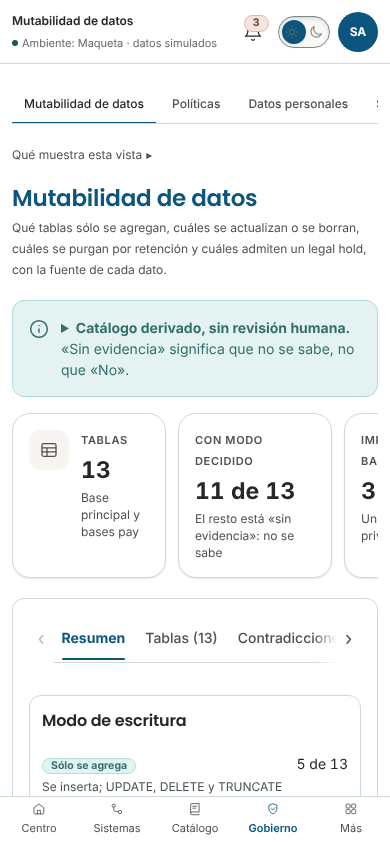
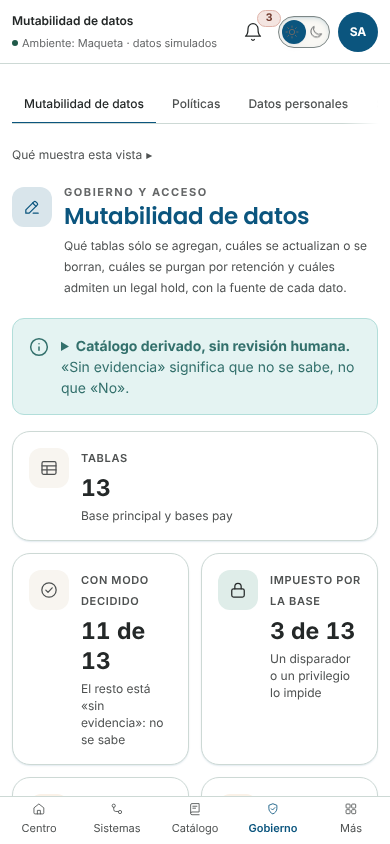
fix(portal): mutabilidad — KPIs todos con icono y en dos columnas, resumen sin tarjetas dentro de la tarjeta (revisión visual 1)
- Las capturas oscuras en blanco eran de una página que no llegó a pintar (servidor
  recompilando), no un defecto del tema: recapturadas 1440 y 768 en oscuro. El guion de
  capturas ahora reintenta si no hay h1 visible.
- Cinco KPIs con icono; 2 columnas (la primera a lo ancho) hasta 1024 px, cinco después.
- Secciones del resumen y hallazgos de la evidencia sin caja propia: línea y aire, o barra
  de acento a la izquierda.

Claude-Session: https://claude.ai/code/session_015srVoda962hL6gd5RrH9vw

diff --git a/src/app/features/admin/portal/mutability/mutability-page.css b/src/app/features/admin/portal/mutability/mutability-page.css
@@ -12,20 +12,22 @@
 
 .mut__metrics {
   display: grid;
-  grid-auto-flow: column;
-  grid-auto-columns: minmax(11rem, 1fr);
+  grid-template-columns: repeat(2, minmax(0, 1fr));
   gap: var(--sp-3);
-  /* Teléfono y tableta: las cinco cifras en un carril desplazable, una sola fila; la tabla queda a la vista. */
-  overflow-x: auto;
-  padding-block-end: var(--sp-1);
-  scrollbar-width: thin;
+}
+
+/* Cinco cifras en dos columnas: la primera a lo ancho (1 + 2 + 2), sin huérfana ni carrusel. */
+.mut__metrics > :first-child {
+  grid-column: 1 / -1;
 }
 
 @media (min-width: 1024px) {
   .mut__metrics {
-    grid-auto-flow: row;
     grid-template-columns: repeat(5, minmax(0, 1fr));
-    overflow-x: visible;
+  }
+
+  .mut__metrics > :first-child {
+    grid-column: auto;
   }
 }
 
@@ -65,27 +67,27 @@
   display: grid;
   grid-template-columns: minmax(0, 1fr);
   align-items: start;
+  column-gap: var(--sp-8);
 }
 
+/* Secciones del resumen: sin caja propia (nada de tarjeta dentro de la tarjeta); las separa
+   una línea y el aire. */
 .mut__panel {
   display: flex;
   flex-direction: column;
   gap: var(--sp-3);
   min-inline-size: 0;
-  padding: var(--sp-3);
-  border: 1px solid var(--border-subtle);
-  border-radius: var(--r-md);
-  background: var(--bg-surface);
+  padding-block-start: var(--sp-4);
+  border-block-start: 1px solid var(--border-subtle);
+}
+
+.mut__grid > .mut__panel:first-child {
+  padding-block-start: 0;
+  border-block-start: 0;
 }
 
 .mut__panel > p {
   margin: 0;
-}
-
-@media (min-width: 650px) {
-  .mut__panel {
-    padding: var(--sp-4);
-  }
 }
 
 @media (min-width: 1024px) {
@@ -406,10 +408,13 @@ p.mut__help {
   display: flex;
   flex-direction: column;
   gap: var(--sp-2);
-  padding: var(--sp-3);
-  border: 1px solid var(--border-default);
-  border-radius: var(--r-md);
-  background: var(--bg-surface-alt);
+  padding-block: var(--sp-1);
+  padding-inline-start: var(--sp-3);
+  border-inline-start: 3px solid var(--st-warning-bd);
+}
+
+.mut__finding[data-kind='CONTRADICTION'] {
+  border-inline-start-color: var(--st-error-bd);
 }
 
 .mut__finding p {

diff --git a/src/app/features/admin/portal/mutability/mutability-page.html b/src/app/features/admin/portal/mutability/mutability-page.html
@@ -36,23 +36,27 @@
         />
         <app-metric-card
           label="Con modo decidido"
+          icon="check-circle"
           [value]="ratio(s.decided)"
           hint="El resto está «sin evidencia»: no se sabe"
         />
         <app-metric-card
           label="Impuesto por la base"
+          icon="lock"
           [value]="ratio(s.enforcedByDatabase)"
           hint="Un disparador o un privilegio lo impide"
           tone="success"
         />
         <app-metric-card
           label="Con contradicciones"
+          icon="flag"
           [value]="ratio(s.withContradictions)"
           hint="Fuentes que se contradicen; no se resuelven aquí"
           [tone]="contradictionTone()"
         />
         <app-metric-card
           label="Retención pendiente"
+          icon="clock"
           [value]="s.pendingCompliance"
           hint="Sin base legal ni confirmación de cumplimiento"
           [tone]="s.pendingCompliance > 0 ? 'warning' : 'success'"
